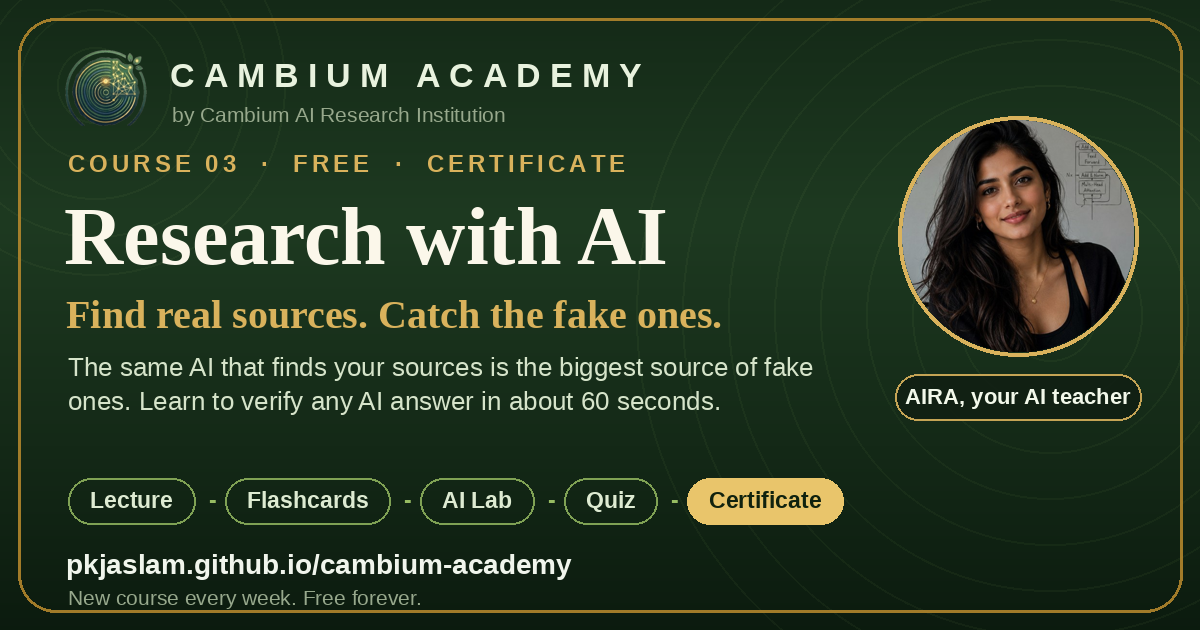
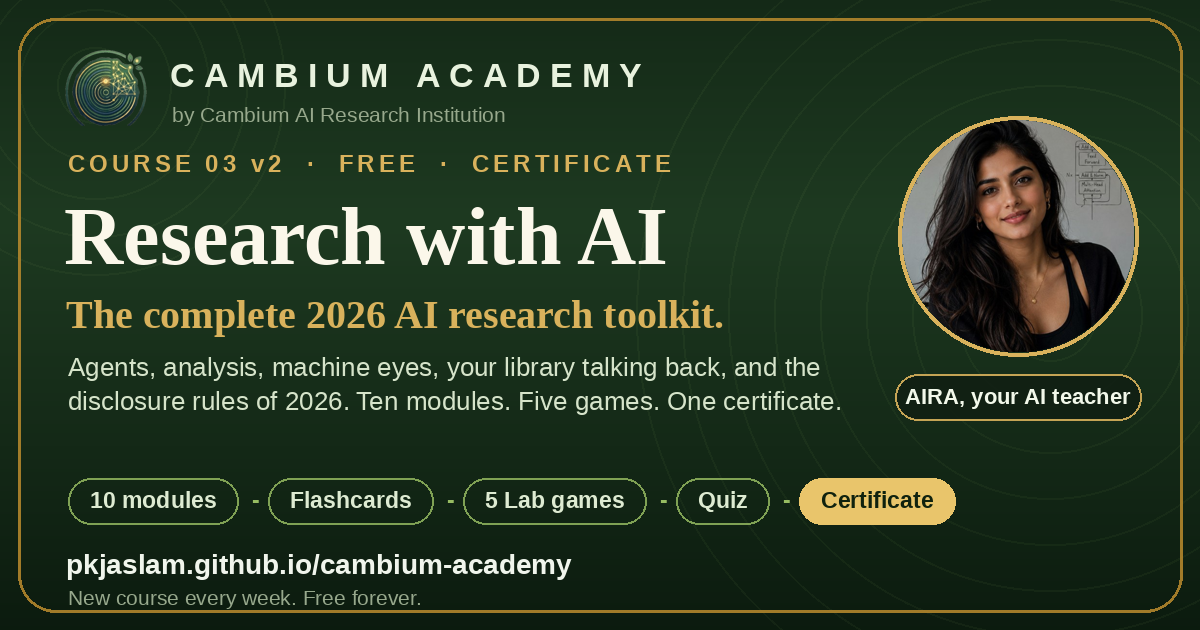
Academy update

diff --git a/HANDOFF.md b/HANDOFF.md
@@ -25,7 +25,7 @@ Project memory auto-loads the rest (Higgsfield pipeline, mount-truncation gotcha
 - **Multi-provider worker v2.1 DEPLOYED LIVE (2026-07-12, with the Director driving approvals):** chain Gemini → Groq 70B → Groq 8B → Workers AI (keyless binding `AI`, added) → GitHub Models → Cohere → NVIDIA. Version 01deb562 on aira-chat.pkjaslamagrico.workers.dev; `GROQ_API_KEY` secret configured; end-to-end verified from the live site (`provider: gemini`, academy-wide prompt active, old MR_API_KEY honored). Source: `courses/course-03-research-with-ai/proxy/`. Capacity now ~15,000+ answers/day. NVIDIA rung ALSO LIVE (NVIDIA_API_KEY secret added 2026-07-12; free dev tier, integrate.api.nvidia.com). Director decided to KEEP the Groq key despite session transit (offered rotation, declined; same stance for the NVIDIA key). Optional remaining rungs: GH_MODELS_TOKEN, COHERE_API_KEY. The deferred fallback-router item is CLOSED.
 
 ## COURSE 3 v2 REDESIGN (Director's call, 2026-07-13) — THE NEXT BIG BUILD
-The Director judged v1 too narrow (trust/citations only). `CURRICULUM.md` is now **v2**: the full 2026 research toolkit in 10 modules (deep research agents incl. Elicit/Undermind/Kosmos; AI coding assistants incl. Posit Assistant; multimodal figures/microscopy/handwriting; NotebookLM; knowledge graphs; AI peer review + policies; reproducibility + Zotero/BibTeX integrity; researcher prompting + responsible AI). v1 preserved as `CURRICULUM_v1.md`; its trust material becomes Module 3 and the 3 existing Lab games stay. All facts live-verified 2026-07-13 with a sources block in the file. Build notes inside: ~70 slides, Lab grows to 5 games (add ins/ps station keys, update all four reader files + gate to 5), same cert/keys, existing 7:20 film stays as the M3 featurette, full v2 film after rebuild. Rebuild order: slides+transcript → cards/quiz/labs → classroom contexts → deck/media → audit → push. **v2 IS COMPLETE AND SWAPPED IN (2026-07-13): the live web/ now IS v2** (60 slides/10 modules, 24 cards, 20 tagged quiz Qs, FIVE games, Vanta hero, classroom v2.1 with quiz-miss coaching, v2 transcript ~20:35, capstone=personal stack, cert chips FIND/VERIFY/CITE/DISCLOSE WELL, v2 deck pptx+pdf). AUDIT PASSED after swap; repo sweeps clean. Awaiting Director push (`push_academy.bat`). Remaining after push: v2 full-length film (BUILD_SPEC film.js v2 effects), optional social refresh, /start/ card copy could mention v2. Staging kept at `production/v2_staging/` as the build record. Complete + verified there: 60-slide 10-module slides.html, checkpoints (10), flashcards (24), quiz (20 tagged, balanced keys, missTopics for classroom drills), playground with FIVE games (ins/ps added), progress/aira readers on the 5-game 60-slide contract, index v2 with self-hosted Vanta hero, classroom v2.1 (quiz-miss coaching).  **`BUILD_SPEC_V2.md` locks the tech: Vanta.js heroes (scoped, self-hosted, mobile-safe), MotionForge-inspired film.js v2 effects (kinetic/reveal/count), 5-game Lab with ins/ps keys, Classroom v2.1 (quiz-miss drills + personal-stack builder), quality bar + file order inside. v2 lands complete or not at all; live v1 untouched until gauntlet passes.**
+The Director judged v1 too narrow (trust/citations only). `CURRICULUM.md` is now **v2**: the full 2026 research toolkit in 10 modules (deep research agents incl. Elicit/Undermind/Kosmos; AI coding assistants incl. Posit Assistant; multimodal figures/microscopy/handwriting; NotebookLM; knowledge graphs; AI peer review + policies; reproducibility + Zotero/BibTeX integrity; researcher prompting + responsible AI). v1 preserved as `CURRICULUM_v1.md`; its trust material becomes Module 3 and the 3 existing Lab games stay. All facts live-verified 2026-07-13 with a sources block in the file. Build notes inside: ~70 slides, Lab grows to 5 games (add ins/ps station keys, update all four reader files + gate to 5), same cert/keys, existing 7:20 film stays as the M3 featurette, full v2 film after rebuild. Rebuild order: slides+transcript → cards/quiz/labs → classroom contexts → deck/media → audit → push. **v2 IS COMPLETE AND SWAPPED IN (2026-07-13): the live web/ now IS v2** (60 slides/10 modules, 24 cards, 20 tagged quiz Qs, FIVE games, Vanta hero, classroom v2.1 with quiz-miss coaching, v2 transcript ~20:35, capstone=personal stack, cert chips FIND/VERIFY/CITE/DISCLOSE WELL, v2 deck pptx+pdf). AUDIT PASSED after swap; repo sweeps clean. Awaiting Director push (`push_academy.bat`). Post-swap extras DONE same day: social-course03.png refreshed to v2 messaging; film.js gained the v2 effects (FILM.kinetic/reveal/count, node-checked); **film v2 kit fully staged at `production/filmv2/`**: all 60 narration clips TTS'd (25:26 total, matches transcript word for word) + durations TSV + README with the exact safe-assembly recipe (single audio track, zero-joint video; the v1 desync lesson is written in). Film v2 render = one focused session of segment authoring + the proven capture grind. /start/ card copy could optionally mention v2. Staging kept at `production/v2_staging/` as the build record. Complete + verified there: 60-slide 10-module slides.html, checkpoints (10), flashcards (24), quiz (20 tagged, balanced keys, missTopics for classroom drills), playground with FIVE games (ins/ps added), progress/aira readers on the 5-game 60-slide contract, index v2 with self-hosted Vanta hero, classroom v2.1 (quiz-miss coaching).  **`BUILD_SPEC_V2.md` locks the tech: Vanta.js heroes (scoped, self-hosted, mobile-safe), MotionForge-inspired film.js v2 effects (kinetic/reveal/count), 5-game Lab with ins/ps keys, Classroom v2.1 (quiz-miss drills + personal-stack builder), quality bar + file order inside. v2 lands complete or not at all; live v1 untouched until gauntlet passes.**
 
 ## Next steps, in order
 1. **Push:** Director runs `push_academy.bat` (sandbox has no GitHub creds). Then live-check: /start/ card, course page, share image resolves, quiz gate, classroom answers + personalized greeting.